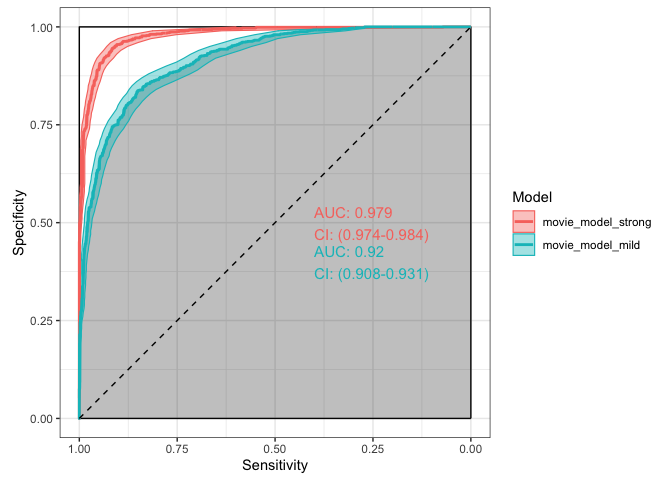
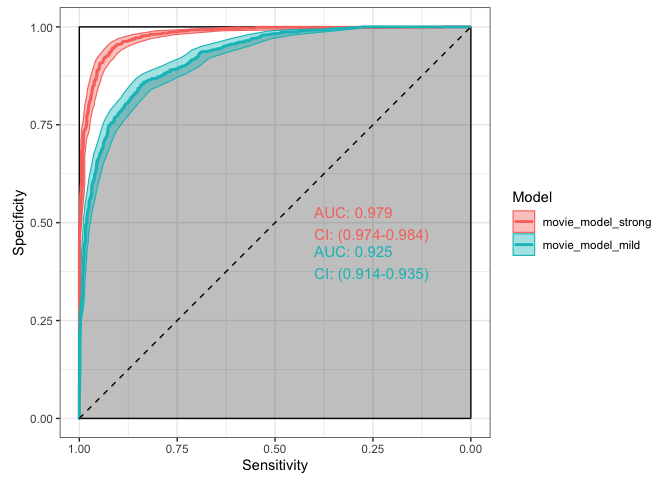
Updated README

diff --git a/README.md b/README.md
@@ -146,8 +146,8 @@ test_output = analyze_roc(movie_assessment, plot=FALSE)
 test_output
 ```
 
-    ##               model1           model2 model1_auc model2_auc      p_value sig
-    ## 1 movie_model_strong movie_model_mild   0.979426    0.91961 1.790522e-21 ***
+    ##               model1           model2 model1_auc model2_auc     p_value sig
+    ## 1 movie_model_strong movie_model_mild   0.979426   0.924531 1.60408e-19 ***
 
 It is !
 
@@ -172,11 +172,8 @@ plotting tools. Let’s take a look at the movie\_model\_strong networks:
 network_table = node_edge(movie_model_strong, removeStopwords = TRUE)
 ```
 
-    ## [1] "Creating table for 'Negative' text..."
-    ## [1] "Creating table for 'Positive' text..."
-
 ``` r
 word_network(network_table, model=movie_model_strong, topX=50)
 ```
 
-![](README_files/figure-gfm/unnamed-chunk-11-1.png)<!-- -->![](README_files/figure-gfm/unnamed-chunk-11-2.png)<!-- -->
+![](README_files/figure-gfm/unnamed-chunk-12-1.png)<!-- -->![](README_files/figure-gfm/unnamed-chunk-12-2.png)<!-- -->
